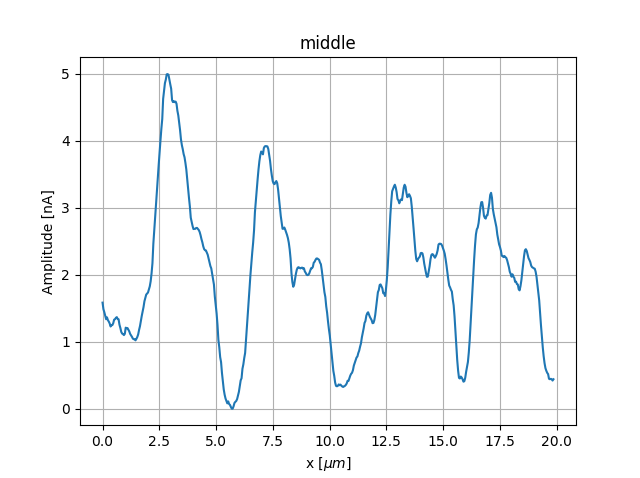
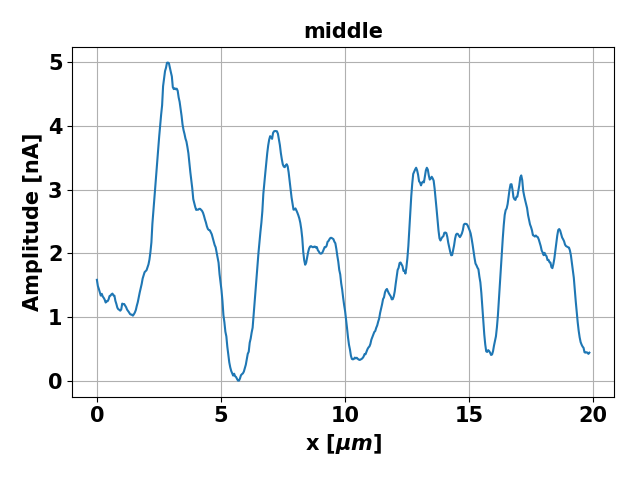
AFM überarbeitung

diff --git a/M1/Protokoll/AFM.tex b/M1/Protokoll/AFM.tex
@@ -71,7 +71,7 @@ pra,
  \altaffiliation[]{RWTH Aachen University, Germany}%Lines break automatically or can be forced with \\
  \email{gerald.kolter@rwth-aachen.de}
 
-\date{May 29, 2019}
+\date{July 4, 2019}
 %\date{\yesterday} It is always \today, today,
              %  but any date may be explicitly specified
 
@@ -110,7 +110,7 @@ $K_i$ & $K_p$ & area & speed[lines/s] & setpoint\\
 \end{table}
 
 \subsection{Tapping Mode}
-In a first step the resonance frequency of the cantilever is determined by sweeping the frequency and measuring the amplitude, because knowledge of this frequency is necessary for the other measurements. In order to avoid full resonance a frequency of \SI{263.8}{kHz}, which is slightly off the resonance frequency, is used for the following measurements.\\
+In a first step the resonance frequency of the cantilever is determined by sweeping the frequency and measuring the amplitude, because knowledge of this frequency is necessary for the other measurements. The resonance frequency turns out to be \SI{263.8(1)}{kHz}, as seen in figure \ref{fig:res_tap}. In order to avoid full resonance a frequency of \SI{263.8}{kHz}, which is slightly off the resonance frequency, is used for the following measurements.\\
 Next the amplitude, phase and topology of a different sample is measured in a similar process as the topology measurement in the contact mode. The optimal setting are given in table \ref{tab:tapping_settings}.\\
 As a final measurement in this mode the cantilever amplitude is measured dependent on the distance between sample and tip in a similar procedure as the force-distance measurement in the contact mode. 
 \begin{table}[h]
@@ -126,8 +126,15 @@ $K_i$ & $K_p$ & area & speed[lines/s] & Frequency\\
 \label{tab:tapping_settings}
 \end{table}
 
+\begin{figure}
+\centering
+\includegraphics[scale=0.55]{Bilder/res_tapping}
+\caption{Resonance spectrum of the tip used in tapping mode, zoomed into the largest peak. The red line indicates the frequency of \SI{263.8}{kHz} used for the measurements.}
+\label{fig:res_tap}
+\end{figure}
+
 \subsection{Magnetic force microscopy}
-Because the tapping mode is also used for parts of the magnetic measurement, the first step is again to determine the resonance frequency with the same method described for the tapping mode. Here the resonance frequency is \SI{76.09 \pm 0.06}{kHz} and a frequency of \SI{76.02}{kHz} is applied for the following measurements.\\
+Because the tapping mode is also used for parts of the magnetic measurement, the first step is again to determine the resonance frequency with the same method described for the tapping mode. Here the resonance frequency is \SI{76.09 \pm 0.06}{kHz} (as seen in figure \ref{fig:res_moag}) and a frequency of \SI{76.02}{kHz} is applied for the following measurements.\\
 The second part is to determine the necessary Bias-Offset in order to be able to correct it. For this the Bias voltage is swept from \SI{-4}{V} to \SI{4}{V} and the amplitude and phase are measured.\\
 Finally the magnetic domains of a hard drive are imaged. This is done by first scanning the amplitude and topology in tapping mode and then measuring the phase in fly mode. The settings used for this measurement are listed in table \ref{tab:magnetic_settings}. The measurement is done for 2 different area sizes in order to make the analysis of the domain dimensions easier.
 
@@ -145,6 +152,13 @@ $K_i$ & $K_p$ & area & lines/s & Frequency & Bias & Scan height\\
 \caption{Settings used for the two measurements for the magnetic force microscopy.}
 \label{tab:magnetic_settings}
 \end{table}
+
+\begin{figure}
+\centering
+\includegraphics[scale=0.55]{Bilder/res_magnetic}
+\caption{Resonance spectrum of the tip used in the magnetic mode, zoomed into the largest peak. The red line indicates the frequency of \SI{76.02}{kHz} used for the measurements.}
+\label{fig:res_moag}
+\end{figure}
 
 \section{Data Analysis}
 \label{sec:Data_Analysis}
@@ -182,7 +196,7 @@ In this $k_{real}$ denotes the known force constant of the cantilever (the force
 \label{sec:Results}
 \subsection{Contact Mode}
 
-\begin{figure}
+\begin{figure}[h]
 \centering
 \includegraphics[scale=0.7]{Bilder/Contact_Mode/Rohdaten/try1_scalebar.PNG}
 \includegraphics[scale=0.5]{Bilder/Contact_Mode/Rohdaten/try1.JPG}
@@ -190,7 +204,7 @@ In this $k_{real}$ denotes the known force constant of the cantilever (the force
 \label{fig:Contact_raw_data}
 \end{figure}
 
-\begin{table}[h]
+\begin{table}[b]
 \centering
 \begin{tabular}{|c|c|c|}
 \hline 
@@ -254,9 +268,10 @@ The result is:
 \begin{equation*}
 F_{load} = (5.68 \pm 0.19 \, (stat.) \, _{+ 2.01} ^{- 1.11} \, (sys.)) \times 10^{-9} \si{N}
 \end{equation*}
+
 \subsection{Tapping Mode}
 
-\begin{figure}
+\begin{figure}[h]
 \centering
 \includegraphics[scale=0.7]{Bilder/Tapping_Mode/Rohdaten/try3_scalebar.PNG}
 \includegraphics[scale=0.5]{Bilder/Tapping_Mode/Rohdaten/try3.JPG}
@@ -264,7 +279,7 @@ F_{load} = (5.68 \pm 0.19 \, (stat.) \, _{+ 2.01} ^{- 1.11} \, (sys.)) \times 10
 \label{fig:Tapping_raw_data}
 \end{figure}
 
-\begin{table}[h]
+\begin{table}[b]
 \centering
 \begin{tabular}{|c|c|c|}
 \hline 
@@ -380,7 +395,7 @@ which is used to determine the final value of the contact potential difference w
 
 \subsubsection{Domain structure}
 As a second part the domain structure of the sample is analyzed, as seen in figure \ref{fig:magnetic_domain}. There are three different areas with magnetic domains visible. Between these areas there is a small zone where no domains are visible.\\
-In order to analyze the density of the domains the width of the areas is visually estimated. This is done by extracting 3 distances for each area alongside the visual structure from the beginning of one area to the beginning of the next, as shown in figure \ref{fig:magnetic_width}. 
+In order to analyze the density of the domains the width of the areas is visually estimated. This is done by extracting 3 distances for each area alongside the visual structure from the beginning of one area to the beginning of the next, as shown in figure \ref{fig:magnetic_domain}. 
 This is done for the \SI{20}{\mu m^2} scan as well as for the \SI{30}{\mu m^2} scan to increase accuracy and in order to verify that the measured areas have similar widths. The resulting average width of all 9 extracted values is
 \begin{equation}
 L = \SI{10.24 \pm 0.43}{\mu m}
@@ -399,28 +414,6 @@ which is used for the density calculation.
 
 Next a height profile of every area in the \SI{20}{\mu m^2} scan is extracted and the distance between the leftmost and rightmost peak measured. For this both the peak position and its error are visually estimated. The profile of the \SI{30}{\mu m^2} scan is not analyzed because there are a lot of points where the tip lost contact or crashed into the surface, which makes an analysis hard. The profiles can be found in figure \ref{fig:magnetic_profile}. The resulting peak distances are listed in table \ref{tab:magnetic_peaks}.
 
-\begin{figure}[t]
-\centering
-\includegraphics[scale=0.4]{Bilder/Magnetic/top.png}
-\includegraphics[scale=0.4]{Bilder/Magnetic/mid.png}
-\includegraphics[scale=0.4]{Bilder/Magnetic/bot.png}
-\caption{Extracted height profiles of the top, middle and bottom areas of the \SI{20}{\mu m^2} scan.}
-\label{fig:magnetic_profile}
-\end{figure}
-
-In order to get an average density the results of the weighted average of the 3 areas is calculated:
-\begin{equation*}
-\#peaks/\mu m^2_{average} = 0.030 \pm 0.007
-\end{equation*}
-One peak equivalates to one domain, which saves exactly 1 Bit. This means that the storage density of the hard drive is
-\begin{equation*}
-\SI{19.3\pm 4.5}{MBit/in^2}
-\end{equation*}
-
-
-
-
-
 \begin{table}[h]
 \centering
 \begin{tabular}{|c|c|c|c|c|}
@@ -438,7 +431,23 @@ bottom & $1.65 \pm 0.16$ & $19.67 \pm 0.04$ & $18.02 \pm 0.16$ & $0.038 \pm 0.00
 \label{tab:magnetic_peaks}
 \end{table}
 
+\begin{figure}[h]
+\centering
+\includegraphics[scale=0.4]{Bilder/Magnetic/top.png}
+\includegraphics[scale=0.4]{Bilder/Magnetic/mid.png}
+\includegraphics[scale=0.4]{Bilder/Magnetic/bot.png}
+\caption{Extracted height profiles of the top, middle and bottom areas of the \SI{20}{\mu m^2} scan.}
+\label{fig:magnetic_profile}
+\end{figure}
 
+In order to get an average density the results of the weighted average of the 3 areas is calculated:
+\begin{equation*}
+\#peaks/\mu m^2_{average} = 0.030 \pm 0.007
+\end{equation*}
+One peak equivalates to one domain, which saves exactly 1 Bit. This means that the storage density of the hard drive is
+\begin{equation*}
+\SI{19.3\pm 4.5}{MBit/in^2}
+\end{equation*}
 
 \section{Conclusion}
 \label{sec:Conclusion}

diff --git a/M1/Python/Magnetic_structure.py b/M1/Python/Magnetic_structure.py
@@ -13,14 +13,20 @@ data = np.genfromtxt("../Daten/Magnetic Profiles/try2 top.prf.cur", delimiter = 
 x = data[:,0]
 y = data[:,1]
 
+font = {'family' : 'normal',
+            'weight' : 'bold',
+            'size'   : 15}
+
 
 plt.figure("top")
+plt.rc('font', **font)
 plt.plot(x,y)
 plt.grid()
 #plt.ylabel("Phase [$^o$]")
-plt.ylabel("Amplitude [nA]")
-plt.xlabel("x [$\mu m$]")
-plt.title("top")
+plt.ylabel("Amplitude [nA]", **font)
+plt.xlabel("x [$\mu m$]", **font)
+plt.title("top", **font)
+plt.tight_layout()
 
 data = np.genfromtxt("../Daten/Magnetic Profiles/try2 mid.prf.cur", delimiter = '',skip_header = 127)
 x = data[:,0]
@@ -28,23 +34,27 @@ y = data[:,1]
 
 
 plt.figure("mid")
+plt.rc('font', **font)
 plt.plot(x,y)
 plt.grid()
 #plt.ylabel("Phase [$^o$]")
-plt.ylabel("Amplitude [nA]")
-plt.xlabel("x [$\mu m$]")
-plt.title("middle")
+plt.ylabel("Amplitude [nA]", **font)
+plt.xlabel("x [$\mu m$]", **font)
+plt.title("middle", **font)
+plt.tight_layout()
 data = np.genfromtxt("../Daten/Magnetic Profiles/try2 bot.prf.cur", delimiter = '',skip_header = 127)
 x = data[:,0]
 y = data[:,1]
 
 
 plt.figure("bot")
+plt.rc('font', **font)
 plt.plot(x,y)
 plt.grid()
 #plt.ylabel("Phase [$^o$]")
-plt.ylabel("Amplitude [nA]")
-plt.xlabel("x [$\mu m$]")#
-plt.title("bottom")
+plt.ylabel("Amplitude [nA]", **font)
+plt.xlabel("x [$\mu m$]", **font)#
+plt.title("bottom", **font)
+plt.tight_layout()
 print np.mean([10.3,9.75,9.42,10.9,10.6,10.3,10,10.6,10.3]), np.std([10.3,9.75,9.42,10.9,10.6,10.3,10,10.6,10.3])
 print np.mean([0.032,0.019,0.038]), np.std([0.032,0.019,0.038])

diff --git a/M1/Python/Magnetic_phi.py b/M1/Python/Magnetic_phi.py
@@ -10,9 +10,11 @@ import numpy as np
 import matplotlib.pyplot as plt
 
 data = np.genfromtxt("../Daten/Magnetic/amplitude_bias.dat", delimiter = '')
-
+font = {'family' : 'normal',
+            'weight' : 'bold',
+            'size'   : 12}
 x = data[:,2]
-y = data[:,4]#/(2*np.pi)*360
+y = data[:,4]/(2*np.pi)*360
 ey = np.full(len(y),0.01)
 def find_nearest(array,value):
     idx = (np.abs(array-value)).argmin()
@@ -26,12 +28,13 @@ def f(B, x):
 fit,dfit,res = p.fitte_bel_function(x[start:ende],y[start:ende],ey[start:ende],f,[1,100,-100])
 
 plt.figure("top")
+plt.rc('font', **font)
 plt.plot(x,y)
 plt.plot(x[start:ende],f(fit,x[start:ende]))
 plt.grid()
 #plt.ylabel("Phase [$^o$]")
-plt.ylabel("Amplitude [mV]")
-plt.xlabel("V [mV]")
+plt.ylabel("Phase [$^o$]", **font)
+plt.xlabel("V [mV]", **font)
 print fit[1],dfit[1]
 
 V,dV,dV2 = p.gew_mittelwert(np.array([151.7,174.8]),np.array([0.3,1.6]))

diff --git a/M1/Python/test.py b/M1/Python/test.py
@@ -8,7 +8,19 @@ import Praktikummo2 as p
 import numpy as np
 import matplotlib.pyplot as plt
 data = np.genfromtxt("../Daten/Magnetic/Resonanz_Freq_nah.dat2", delimiter = '')
-x = data[:,0]
+x = data[:,0]/1000
 y = data[:,1]
 
+font = {'family' : 'normal',
+            'weight' : 'bold',
+            'size'   : 10}
+
+fig = plt.figure()
+plt.rc('font', **font)
 plt.plot(x,y)
+plt.grid()
+plt.ylabel("Amplitude", **font)
+plt.xlabel("Frequency [kHz]", **font)
+test = plt.axis()
+plt.vlines(76.02,0,10,color = "red",linestyle = "dashed")
+plt.axis(test)
